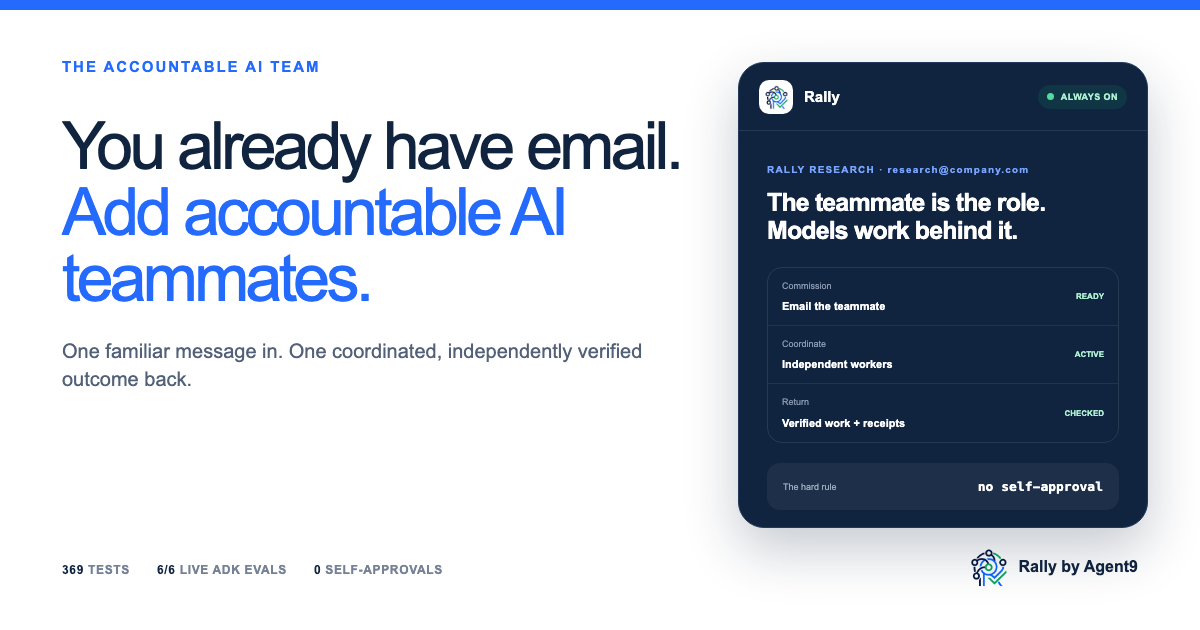
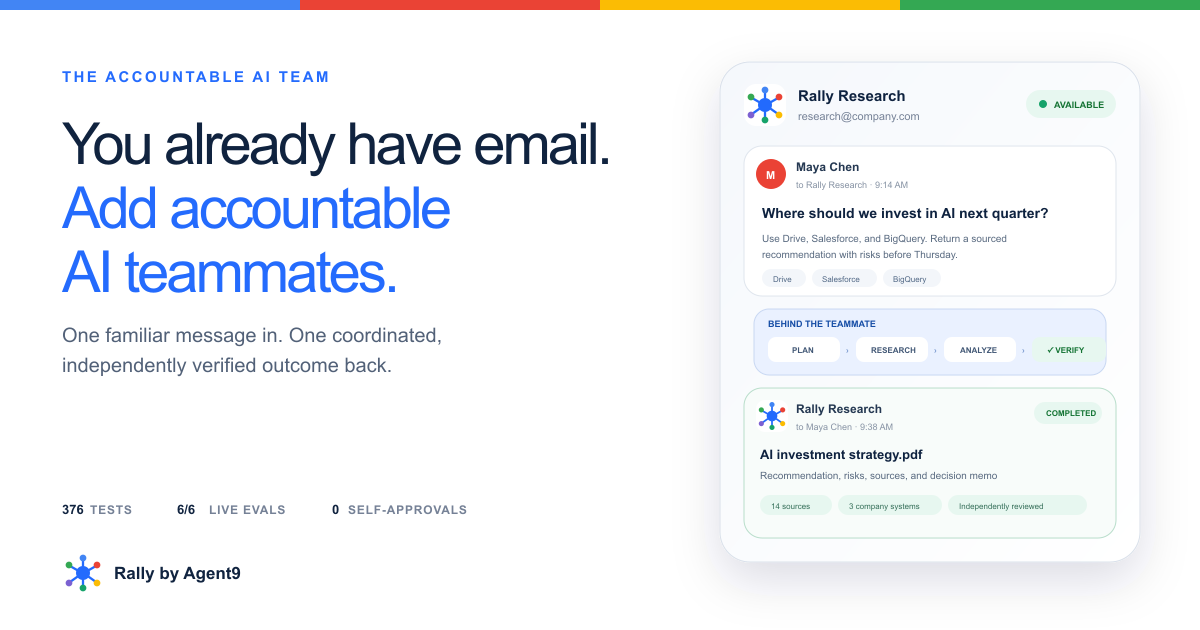
Synchronize final release proof counts

diff --git a/studio/og-card.html b/studio/og-card.html
@@ -53,7 +53,7 @@
         <div class="rule"><span>The hard rule</span><code>no self-approval</code></div>
       </div>
     </div>
-    <div class="proof"><span><b>369</b> TESTS</span><span><b>6/6</b> LIVE ADK EVALS</span><span><b>0</b> SELF-APPROVALS</span></div>
+    <div class="proof"><span><b>376</b> TESTS</span><span><b>6/6</b> LIVE ADK EVALS</span><span><b>0</b> SELF-APPROVALS</span></div>
     <div class="brand"><img class="mark" src="../site/rally-symbol.png" alt=""><span>Rally by Agent9</span></div>
   </body>
 </html>

diff --git a/site/index.html b/site/index.html
@@ -315,10 +315,10 @@
           </article>
           <article class="test-card">
             <div class="card-header"><div><span class="terminal-icon">›_</span><b>Product safety checks</b></div><span class="status-chip complete">Green</span></div>
-            <pre><code>183 runner + ingress + policy + site
+            <pre><code>190 runner + ingress + policy + site
 186 Cloud, A2A + connector security
 ───
-369 automated tests
+376 automated tests
 
 ✓ Terraform validated
 ✓ Worker bundle verified

diff --git a/studio/demo-teleprompter.html b/studio/demo-teleprompter.html
@@ -434,7 +434,7 @@
           <span>All Things Agentic · Final Take</span>
         </div>
       </div>
-      <div class="session"><span class="live-dot"></span><span>3:24 target · 10 shots · 369 tests</span></div>
+      <div class="session"><span class="live-dot"></span><span>3:24 target · 10 shots · 376 tests</span></div>
     </header>
 
     <div class="progress-track" aria-hidden="true"><div class="progress-fill" id="progressFill"></div></div>

diff --git a/docs/JUDGING-STRATEGY.md b/docs/JUDGING-STRATEGY.md
@@ -10,7 +10,7 @@ repository, an unpublished artifact, or an optional bonus as complete.
 |---|---:|---|---|---|
 | Innovation and operational utility | 40 | Terry, the owner-operator of a five-person professional-services firm, emails one outcome to a stable AI teammate; three provider-native model families share one checklist; deterministic policy requires an independent verifier and returns evidence in the same thread. | Runner ownership/verification invariants, distinct-family checks, durable email intake, primary final run `r-20260831-48141a`, and separate successful recovery run `r-20260830-447f2f`. | Record the commission and one continuous live state transition. Keep the unlikely hero and finished business outcome—not infrastructure—as the through-line. |
 | Technical architecture | 30 | Gemini 3.7 + Google ADK are load-bearing for the authenticated handoff; Firestore provides retry-safe coordination; Cloud Run, IAM, Secret Manager, Trace, Worker/D1, and the local licensed-worker host have explicit trust boundaries. Workspace execution is local, not end-to-end on Cloud Run. | Terraform and security contracts; coordinator `rally-google-coordinator-00007-xpq`; control plane `rally-control-plane-00011-pg6`; both pinned to image `sha256:b1836e2224518a8bed51da7e02ef256aeba1aeeae858808f470a0d02d33fa6e2`; Cloud Build `58a580b6-c6d2-45d6-945b-8fc1bb643cd5`; Worker `757237b2-8c72-4429-913a-f854d014cf2a`; Pages `f2d67f82.agent9-rally.pages.dev`. | Capture sanitized Cloud Run revision, Firestore record, IAM boundary, and content-free trace. Pair them with the architecture diagram; do not use the diagram as deployment proof. |
-| Demo and production readiness | 30 | The current suites contain 369 deterministic tests (183 local + 186 Cloud), the separate live ADK eval is 6/6 at 1.00 trajectory and 1.00 quality, and failure/replay/budget controls are enforced outside prompts. | `make test`, `make cloud-test`, release checks, eval scorecard, and `r-20260831-48141a`: 13 turns, 6/6 cross-worker checklist items, a committed 882-word checkpoint with 22/22 audited claims supported, and a delivery receipt. The later 897-word mutation is disclosed separately. | Capture a 3:55-or-shorter entry containing continuous live execution, plus its complete 1× run; verify signed-out playback, repository access, and Devpost fields. Preserve the turn-7 containment advisory as an operator-edit event, not an agent escape. |
+| Demo and production readiness | 30 | The current suites contain 376 deterministic tests (190 local + 186 Cloud), the separate live ADK eval is 6/6 at 1.00 trajectory and 1.00 response quality, and failure/replay/budget controls are enforced outside prompts. | `make test`, `make cloud-test`, release checks, eval scorecard, and `r-20260831-48141a`: 13 turns, 6/6 cross-worker checklist items, a committed 882-word checkpoint with 22/22 audited claims supported, and a delivery receipt. The later 897-word mutation is disclosed separately. | Capture a 3:55-or-shorter entry containing continuous live execution, plus its complete 1× run; verify signed-out playback, repository access, and Devpost fields. Preserve the turn-7 containment advisory as an operator-edit event, not an agent escape. |
 
 ## Bonus posture
 
@@ -34,7 +34,7 @@ Lyria, or other model call solely for points.
 5. **Separate recovery (2:56–3:16):** visibly label `r-20260830-447f2f` as the
    successful Second Wind receipt; never attach its recovery to primary-run
    numbers.
-6. **Readiness (3:16–3:43):** show 369 tests, 6/6 eval, and content-free trace.
+6. **Readiness (3:16–3:43):** show 376 tests, 6/6 eval, and content-free trace.
 7. **User receipt (3:43–3:55):** close on the primary final brief and delivery.
 
 ## Submission gates

diff --git a/README.md b/README.md
@@ -55,7 +55,7 @@ with inspectable evidence for every claim.
 |---|---|---|
 | **Innovation & operational utility — 40%** | A nontechnical owner commissions a complex outcome by email or dashboard; specialized models research, draft, challenge, repair, and verify without human dispatch | [Real run](https://rally.agent9.dev/#demo) · [13-turn receipt](#one-email-thirteen-governed-turns-one-result) |
 | **Architectural discipline & tech stack — 30%** | Strict agent authority, failure-tolerant Second Wind routing, durable state, replay protection, and a load-bearing Gemini + ADK + Google Cloud path | [Architecture](#architecture-cloud-coordination-licensed-execution-deterministic-authority) · [security](docs/SECURITY.md) |
-| **Demo & production readiness — 30%** | A 13-turn email workflow with a committed audited checkpoint and disclosed closure gap, 369 deterministic tests, a 6/6 live ADK evaluation, digest-pinned deployment, and reproducible setup | [Evidence](#evidence-before-adjectives) · [run it](#reproduce-rally) · [judge packet](docs/JUDGE-PACKET.md) |
+| **Demo & production readiness — 30%** | A 13-turn email workflow with a committed audited checkpoint and disclosed closure gap, 376 deterministic tests, a 6/6 live ADK evaluation, digest-pinned deployment, and reproducible setup | [Evidence](#evidence-before-adjectives) · [run it](#reproduce-rally) · [judge packet](docs/JUDGE-PACKET.md) |
 
 Devpost's manager [confirmed](https://allthingsagentichackathon.devpost.com/forum_topics/44900-rules-track-names-multi-agent-nexus-etc-vs-official-categories-which-applies-to-fleet)
 that Fortified Enterprise Fleet uses the “Multi-Agent Nexus” architecture test:
@@ -311,13 +311,13 @@ Gemini Enterprise Agent Platform runtime, or a production Memory Bank.
 
 ## Evidence before adjectives
 
-The release candidate contains **369 deterministic automated tests**:
+The release candidate contains **376 deterministic automated tests**:
 
 | Suite | Count | What it protects |
 |---|---:|---|
-| Local product and integration | 183 | Runner, envelope, ingress, signatures, email, media delivery, threaded revisions, console, recovery, connectors, site contracts |
+| Local product and integration | 190 | Runner, envelope, ingress, signatures, email, media delivery, threaded revisions, console, recovery, connectors, site contracts |
 | Google Cloud and protocol | 186 | ADK service, Firestore, identity, KMS vault, A2A, OAuth, presets, approvals, hosted gateway |
-| **Total** | **369** | Plus the separate 6/6 live ADK evaluation |
+| **Total** | **376** | Plus the separate 6/6 live ADK evaluation |
 
 The [public evidence index](docs/evidence/) carries sanitized, reviewable run
 receipts; private runtime state remains gitignored by design.

diff --git a/docs/HACKATHON.md b/docs/HACKATHON.md
@@ -48,7 +48,7 @@ engineering leader can audit.
 |---|---|---|
 | Innovation & operational utility (40%) | Email-native access plus cross-family verification converts agents from personal copilots into a shared, accountable team service | Send one email; show provider-native worker turns and final evidence |
 | Technical architecture (30%) | ADK + Gemini on IAM-protected Cloud Run, atomic Firestore idempotency, Secret Manager, Cloud Trace, signed edge webhook, deterministic state machine | Architecture diagram, Terraform, trace/log, verification state |
-| Demo & production readiness (30%) | Deployed coordination path, live eval gate, bounded costs, polished emails, human stop/steer, reproducible repo | 6/6 eval, 369 tests, live Cloud Run health, complete email thread |
+| Demo & production readiness (30%) | Deployed coordination path, live eval gate, bounded costs, polished emails, human stop/steer, reproducible repo | 6/6 eval, 376 tests, live Cloud Run health, complete email thread |
 
 ## Model assignment rationale
 
@@ -134,7 +134,7 @@ lowering a threshold.
 - Authenticated fleet catalog for cross-department discovery and governance
 - Dual-auth Cloud Run boundary and least-privilege runtime identity
 - Metadata-only GenAI observability
-- 369 automated tests (183 local + 186 Cloud) plus six live ADK eval cases at 1.00/1.00
+- 376 automated tests (190 local + 186 Cloud) plus six live ADK eval cases at 1.00/1.00
 - Validated Terraform and a demo-ready operator workflow
 
 ### What we learned

diff --git a/docs/JUDGE-PACKET.md b/docs/JUDGE-PACKET.md
@@ -26,7 +26,7 @@ commission that work from a phone without becoming an AI platform engineer.
 | 1:24 | Are agents doing and rejecting real work? | Owner work → `awaiting-verification` → other-family verdict | Primary outcome history `r-20260831-48141a` |
 | 2:24 | Is checklist authority enforceable? | Sanitized receipt, audit, and committed artifact | `r-20260831-48141a`: 13 turns, 6/6; 882-word checkpoint with 22/22 audited claims; delivery receipt |
 | 2:56 | Does recovery preserve authority? | Two recovery log lines under a separate-run label | `r-20260830-447f2f`: successful Second Wind recovery for c6 |
-| 3:16 | Is it production-minded? | ADK eval, 369-test receipt, metadata-only trace | 6/6 at 1.00/1.00; prompt capture disabled |
+| 3:16 | Is it production-minded? | ADK eval, 376-test receipt, metadata-only trace | 6/6 at 1.00/1.00; prompt capture disabled |
 | 3:43 | What does the user receive? | Final brief and delivery receipt | Primary run only; no console archaeology |
 
 The entry itself should contain a genuine continuous live execution. The safest
@@ -109,7 +109,7 @@ stale owner from overwriting the new attempt.
 
 ## Judge-visible numbers
 
-- 369 automated deterministic tests: 183 product tests + 186 Cloud/A2A/connector tests
+- 376 automated deterministic tests: 190 product tests + 186 Cloud/A2A/connector tests
 - 6 live ADK evaluation cases
 - 1.00 tool trajectory score
 - 1.00 response-quality score

diff --git a/docs/PUBLIC-LAUNCH-DRAFT.md b/docs/PUBLIC-LAUNCH-DRAFT.md
@@ -43,7 +43,7 @@ gate. Rally now passes six live cases—including policy bypass, hostile artifac
 instructions, and a production-shaped release workflow—at 1.00 trajectory and
 1.00 response quality.
 
-The current release has 369 deterministic automated tests (183 local and 186
+The current release has 376 deterministic automated tests (190 local and 186
 Cloud) plus that live
 scorecard. More importantly, the demo shows the agents doing the work: researching
 primary sources, building an executive presentation, running its checks, placing an item into
@@ -66,7 +66,7 @@ One email commissions real repository work. Gemini 3.7 + Google ADK governs the
 handoff. Gemini, Claude, and OpenAI Codex implement, test, challenge, and verify. Deterministic
 policy enforces one rule neither model can waive: owner ≠ verifier.
 
-369 tests. 6/6 live ADK evals at 1.00/1.00. [Add only after capture: Full
+376 tests. 6/6 live ADK evals at 1.00/1.00. [Add only after capture: Full
 unedited agent run included.]
 
 One request. Three model families. Zero self-approval.

diff --git a/docs/SUBMISSION-CHECKLIST.md b/docs/SUBMISSION-CHECKLIST.md
@@ -10,7 +10,7 @@ entry. Items are ordered so a failure cannot invalidate later evidence.
 - [x] The live result reads 6/6, trajectory 1.00, quality 1.00.
 - [x] `git diff --check` passes.
 - [x] No token, private key, webhook URL, or prompt content appears in tracked files.
-- [ ] The repository and site say 369 tests everywhere: 183 local + 186 Cloud.
+- [x] The repository and site say 376 tests everywhere: 190 local + 186 Cloud.
 - [x] The standard and filmed model pins are documented accurately.
 
 ## 2. Approval gate: Google Cloud deployment
